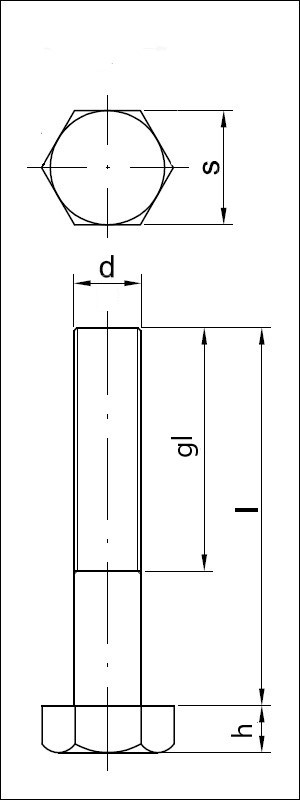
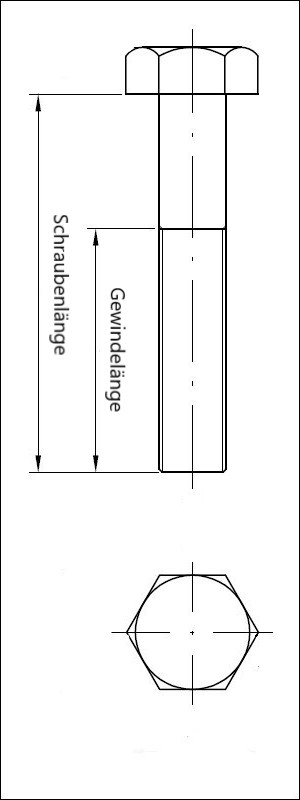
haben wir noch impfstoff?

diff --git a/Schraubengott/Schraubengott/MainWindow.xaml b/Schraubengott/Schraubengott/MainWindow.xaml
@@ -5,17 +5,14 @@
         xmlns:mc="http://schemas.openxmlformats.org/markup-compatibility/2006"
         xmlns:local="clr-namespace:Schraubengott"
         mc:Ignorable="d"
-        Title="Schraubengott" Height="652.912" Width="1067.25" Icon="Symbol.ico" ResizeMode="CanMinimize">
+        Title="Schraubengott" Height="610.245" Width="1072.583" Icon="Symbol.ico" ResizeMode="CanMinimize">
     <Grid>
         <Grid.ColumnDefinitions>
             <ColumnDefinition Width="11*"/>
             <ColumnDefinition Width="782*"/>
         </Grid.ColumnDefinitions>
-        <Image HorizontalAlignment="Left" Margin="52.5,0,0,150.5" Width="183" Source="vykres_-_din_931.jpg" Height="366" VerticalAlignment="Bottom" Grid.Column="1"/>
-        <Button Name="btnexit" Content="Exit" HorizontalAlignment="Left" Height="22" Margin="927.5,578,0,0" VerticalAlignment="Top" Width="92" Grid.Column="1" Click="btnexit_Click" />
-        <Button Content="Ich bin fertig" HorizontalAlignment="Left" Height="23" Margin="765.5,578,0,0" VerticalAlignment="Top" Width="92" Grid.Column="1"/>
-        <Button Content="zum Warenkorb" HorizontalAlignment="Left" Height="23" Margin="697,513,0,0" VerticalAlignment="Top" Width="92" Grid.Column="1" Click="Button_Click"  />
-        <TabControl Grid.Column="1" HorizontalAlignment="Left" Height="433" Margin="236,62,0,0" VerticalAlignment="Top" Width="760">
+        <Button Name="btnexit" Content="Exit" HorizontalAlignment="Left" Height="22" Margin="904.333,546,0,0" VerticalAlignment="Top" Width="92" Grid.Column="1" Click="btnexit_Click" />
+        <TabControl Grid.Column="1" HorizontalAlignment="Left" Height="447" Margin="42.333,44,0,0" VerticalAlignment="Top" Width="954">
             <TabItem x:Name="tab_konfig" Header="Konfigurator" Height="22" Margin="-2,-2,-2.5,0" VerticalAlignment="Top">
                 <Grid x:Name="grid0" RenderTransformOrigin="0.426,0.462">
                     <Grid.Background>
@@ -26,68 +23,75 @@
                         </RadialGradientBrush>
                     </Grid.Background>
                     <Grid.ColumnDefinitions>
-                        <ColumnDefinition Width="10*"/>
-                        <ColumnDefinition Width="75*"/>
-                        <ColumnDefinition Width="19*"/>
-                        <ColumnDefinition Width="18*"/>
-                        <ColumnDefinition Width="13*"/>
-                        <ColumnDefinition Width="46*"/>
-                        <ColumnDefinition Width="53*"/>
-                        <ColumnDefinition Width="171*"/>
-                        <ColumnDefinition Width="350*"/>
+
                     </Grid.ColumnDefinitions>
-                    <Label Content="Material:" HorizontalAlignment="Left" Height="30" Margin="4,10,0,0" VerticalAlignment="Top" Width="58" Grid.Column="1"/>
-                    <Label Content="Festigkeitsklasse:" HorizontalAlignment="Left" Height="30" Margin="4,45,0,0" VerticalAlignment="Top" Width="112" Grid.ColumnSpan="4" Grid.Column="1"/>
 
-
-                    <ComboBox Name="cbmat"   IsEditable="true" SelectedValuePath="Content"
-                                IsReadOnly="true" SelectionChanged="cbmat_SelectionChanged_1" HorizontalAlignment="Left" Height="26" Margin="17,10,0,0" VerticalAlignment="Top" Width="140" Grid.Column="3" Grid.ColumnSpan="5">
-                        <ComboBoxItem x:Name="name" Content="Verzinkter Stahl"/>
-                        <ComboBoxItem Content="V2A"/>
-                        <ComboBoxItem Content="V4A"/>
-
-
-                    </ComboBox>
-                    <ComboBox Name="cbfk" IsEditable="true" SelectedValuePath="Content"
-                         IsReadOnly="true"   HorizontalAlignment="Left" Height="26" Margin="17,45,0,0" VerticalAlignment="Top" Width="140" Grid.Column="3" Grid.ColumnSpan="5" SelectionChanged="cbfk_SelectionChanged" MaxDropDownHeight="60"  >
+                    <Image x:Name="Image1" HorizontalAlignment="Left" Margin="754,0,0,23" Width="140"  Height="368" VerticalAlignment="Bottom" Source="vykres_-_din_931.jpg" Visibility="Visible"/>
+                    <Image x:Name="Image2" HorizontalAlignment="Left" Margin="754,0,0,23" Width="140"  Height="368" VerticalAlignment="Bottom" Source="3929_1.jpg" Visibility="Hidden"/>
+                    <ComboBox  x:Name="cmb_nr" HorizontalAlignment="Left" Margin="237,25,0,0" VerticalAlignment="Top" Width="120" SelectionChanged="cmb_nr_SelectionChanged" Height="30">
+                        <ComboBoxItem x:Name="screw1"  Content="Schraube 1" HorizontalAlignment="Left" Width="118"/>
+                        <ComboBoxItem x:Name="screw2" Visibility="Collapsed" Content="Schraube 2" HorizontalAlignment="Left" Width="118"/>
+                        <ComboBoxItem x:Name="screw3" Visibility="Collapsed" Content="Schraube 3" HorizontalAlignment="Left" Width="118"/>
+                        <ComboBoxItem x:Name="screw4" Visibility="Collapsed" Content="Schraube 4" HorizontalAlignment="Left" Width="118"/>
+                        <ComboBoxItem x:Name="screw5" Visibility="Collapsed" Content="Schraube 5" HorizontalAlignment="Left" Width="118"/>
 
                     </ComboBox>
-                    <CheckBox x:Name="gewartcheck" Content="Feingewinde" HorizontalAlignment="Left" Margin="17,150,0,0" VerticalAlignment="Top" Height="16" Width="87" Checked="CheckBox_Checked" Unchecked="CheckBox_Unchecked" Grid.Column="3" Grid.ColumnSpan="4"/>
-                    <ComboBox x:Name="cbgewinde" IsEditable="true" SelectedValuePath="Content"
-                                IsReadOnly="true" HorizontalAlignment="Left" Margin="17,115,0,0" VerticalAlignment="Top" Width="140" Height="26" Grid.Column="3" Grid.ColumnSpan="5" SelectionChanged="cbgewinde_SelectionChanged" MaxDropDownHeight="60">
-                        <ComboBoxItem Content="M4" HorizontalAlignment="Left" Width="118"/>
-                        <ComboBoxItem Content="M5" HorizontalAlignment="Left" Width="118"/>
-                        <ComboBoxItem Content="M6" HorizontalAlignment="Left" Width="118"/>
-                        <ComboBoxItem Content="M8" HorizontalAlignment="Left" Width="118"/>
-                        <ComboBoxItem Content="M10" HorizontalAlignment="Left" Width="118"/>
-                        <ComboBoxItem Content="M12" HorizontalAlignment="Left" Width="118"/>
-                        <ComboBoxItem Content="M16" HorizontalAlignment="Left" Width="118"/>
-                        <ComboBoxItem Content="M20" HorizontalAlignment="Left" Width="118"/>
-                    </ComboBox>
-                    <Label Content="Gewinde" HorizontalAlignment="Left" Margin="4,115,0,0" VerticalAlignment="Top" Height="30" Width="56" Grid.Column="1"/>
-                    <Label Content="Bemerkungen:" HorizontalAlignment="Left" Margin="4,306,0,0" VerticalAlignment="Top" RenderTransformOrigin="0.971,4.298" Height="26" Width="86" Grid.ColumnSpan="2" Grid.Column="1"/>
-                    <TextBox x:Name="text" HorizontalAlignment="Left" Height="53" Margin="17,306,0,0" TextWrapping="Wrap" Text="z.B Bitte in 50er Paketen versenden" VerticalAlignment="Top" Width="274" Grid.Column="3" Grid.ColumnSpan="5" IsReadOnly="False" />
-                    <Label Content="Kopf:" HorizontalAlignment="Left" Height="30" Margin="4,80,0,0" VerticalAlignment="Top" Width="112" Grid.ColumnSpan="4" Grid.Column="1"/>
-                    <ComboBox x:Name="cbkopf" IsEditable="true" SelectedValuePath="Content"
-                        IsReadOnly="true" HorizontalAlignment="Left" Margin="17,80,0,0" VerticalAlignment="Top" Width="140" Height="26" Grid.Column="3" Grid.ColumnSpan="5" SelectionChanged="cbkopf_SelectionChanged" >
-                        <ComboBoxItem Content="Außensechskant"/>
-                        <ComboBoxItem Content="Innensechskant" />
+                    <Button x:Name="new_screw" Content="weitere Konfigurieren" HorizontalAlignment="Left" Margin="445,25,0,0" VerticalAlignment="Top" Width="156" Height="30" Click="new_screw_Click"/>
+                    <Label Content="EA" HorizontalAlignment="Left" Height="30" Margin="634,220,0,0" VerticalAlignment="Top" Width="39" RenderTransformOrigin="1.504,1.219"/>
+                    <Border BorderBrush="Black" BorderThickness="1" HorizontalAlignment="Left" Height="308" Margin="25,85,0,0" VerticalAlignment="Top" Width="662">
+                        <Grid>
+                            <Label Content="Material:" Height="30" Margin="15,35,0,0" VerticalAlignment="Top" Width="58" HorizontalAlignment="Left"/>
+                            <Label Content="Festigkeitsklasse:" HorizontalAlignment="Left" Height="30" Margin="15,85,0,0" VerticalAlignment="Top" Width="112"/>
 
 
-                    </ComboBox>
+                            <ComboBox Name="cbmat"   IsEditable="true" SelectedValuePath="Content"
+                                IsReadOnly="true" SelectionChanged="cbmat_SelectionChanged_1" HorizontalAlignment="Left" Height="26" Margin="135,35,0,0" VerticalAlignment="Top" Width="140">
+                                <ComboBoxItem x:Name="name" Content="Verzinkter Stahl"/>
+                                <ComboBoxItem Content="V2A"/>
+                                <ComboBoxItem Content="V4A"/>
 
 
-                    <Label Content="Schraubenlänge:" HorizontalAlignment="Left" Height="30" Margin="4,185,0,0" VerticalAlignment="Top" Width="112" Grid.ColumnSpan="4" Grid.Column="1"/>
-                    <Label Content="Gewindelänge:" HorizontalAlignment="Left" Height="30" Margin="4,220,0,0" VerticalAlignment="Top" Width="112" Grid.ColumnSpan="4" Grid.Column="1"/>
-                    <Label Content="mm" HorizontalAlignment="Left" Height="30" Margin="41,185,0,0" VerticalAlignment="Top" Width="39" RenderTransformOrigin="1.504,1.219" Grid.Column="6" Grid.ColumnSpan="2"/>
-                    <TextBox x:Name="txt_len" MaxLength="3" HorizontalAlignment="Left" Height="26" Margin="13,185,0,0" TextWrapping="Wrap" VerticalAlignment="Top" Width="69" UndoLimit="99" TextChanged="TextBox_TextChanged" Grid.Column="5" Grid.ColumnSpan="2"/>
-                    <TextBox x:Name="txt_gewlen" MaxLength="3" HorizontalAlignment="Left" Height="26" Margin="13,220,0,0" TextWrapping="Wrap" VerticalAlignment="Top" Width="69" UndoLimit="99" TextChanged="TextBox_TextChanged" Grid.Column="5" Grid.ColumnSpan="2"/>
-                    <Label Content="mm" HorizontalAlignment="Left" Height="30" Margin="41,220,0,0" VerticalAlignment="Top" Width="39" RenderTransformOrigin="1.504,1.219" Grid.Column="6" Grid.ColumnSpan="2"/>
-                    <Label Content="Menge" HorizontalAlignment="Left" Height="26" Margin="4,255,0,0" VerticalAlignment="Top" Width="112" Grid.ColumnSpan="4" Grid.Column="1"/>
-                    <TextBox x:Name="txt_menge" MaxLength="9" HorizontalAlignment="Left" Height="26" Margin="13,255,0,0" TextWrapping="Wrap" VerticalAlignment="Top" Width="69" UndoLimit="99" TextChanged="TextBox_TextChanged" Grid.Column="5" Grid.ColumnSpan="2"/>
-                    <Button x:Name="btnauswahl" Content="Auswahl speichern" Grid.Column="8" HorizontalAlignment="Left" Height="20" Margin="175.5,375,0,0" VerticalAlignment="Top" Width="114" Background="{DynamicResource {x:Static SystemColors.ActiveBorderBrushKey}}" Click="btnauswahl_Click"/>
-                    <Label x:Name="lbl_test"  Content="Label" Grid.Column="8" HorizontalAlignment="Left" Margin="189.5,108,0,0" VerticalAlignment="Top"/>
-                    <Label x:Name="lbl_test2" Content="Label" Grid.Column="8" HorizontalAlignment="Left" Margin="203.5,211,0,0" VerticalAlignment="Top"/>
+                            </ComboBox>
+                            <ComboBox Name="cbfk" IsEditable="true" SelectedValuePath="Content"
+                         IsReadOnly="true"   HorizontalAlignment="Left" Height="26" Margin="135,85,0,0" VerticalAlignment="Top" Width="140" SelectionChanged="cbfk_SelectionChanged" MaxDropDownHeight="60"  />
+                            <CheckBox x:Name="gewartcheck" Content="Feingewinde" HorizontalAlignment="Left" Margin="188,226,0,0" VerticalAlignment="Top" Height="16" Width="87" Checked="CheckBox_Checked" Unchecked="CheckBox_Unchecked"/>
+                            <ComboBox x:Name="cbgewinde" IsEditable="true" SelectedValuePath="Content"
+                                IsReadOnly="true" HorizontalAlignment="Left" Margin="135,185,0,0" VerticalAlignment="Top" Width="140" Height="26" SelectionChanged="cbgewinde_SelectionChanged" MaxDropDownHeight="60">
+                                <ComboBoxItem Content="M4" HorizontalAlignment="Left" Width="118"/>
+                                <ComboBoxItem Content="M5" HorizontalAlignment="Left" Width="118"/>
+                                <ComboBoxItem Content="M6" HorizontalAlignment="Left" Width="118"/>
+                                <ComboBoxItem Content="M8" HorizontalAlignment="Left" Width="118"/>
+                                <ComboBoxItem Content="M10" HorizontalAlignment="Left" Width="118"/>
+                                <ComboBoxItem Content="M12" HorizontalAlignment="Left" Width="118"/>
+                                <ComboBoxItem Content="M16" HorizontalAlignment="Left" Width="118"/>
+                                <ComboBoxItem Content="M20" HorizontalAlignment="Left" Width="118"/>
+                            </ComboBox>
+                            <Label Content="Gewinde" HorizontalAlignment="Left" Margin="15,185,0,0" VerticalAlignment="Top" Height="30" Width="56"/>
+                            <Label Content="Bemerkungen:" HorizontalAlignment="Left" Margin="350,185,0,0" VerticalAlignment="Top" RenderTransformOrigin="0.971,4.298" Height="26" Width="86"/>
+                            <TextBox x:Name="text" HorizontalAlignment="Left" Height="53" Margin="441,185,0,0" TextWrapping="Wrap" Text="z.B Bitte in 50er Paketen versenden" VerticalAlignment="Top" Width="207" IsReadOnly="False" />
+                            <Label Content="Kopf:" HorizontalAlignment="Left" Height="30" Margin="15,135,0,0" VerticalAlignment="Top" Width="112"/>
+                            <ComboBox x:Name="cbkopf" IsEditable="true" SelectedValuePath="Content"
+                        IsReadOnly="true" HorizontalAlignment="Left" Margin="135,135,0,0" VerticalAlignment="Top" Width="140" Height="26" SelectionChanged="cbkopf_SelectionChanged" >
+                                <ComboBoxItem Content="Außensechskant"/>
+                                <ComboBoxItem Content="Innensechskant" />
+
+
+                            </ComboBox>
+
+
+                            <Label Content="Schraubenlänge:" HorizontalAlignment="Left" Height="30" Margin="350,35,0,0" VerticalAlignment="Top" Width="112"/>
+                            <Label Content="Gewindelänge:" HorizontalAlignment="Left" Height="30" Margin="350,85,0,0" VerticalAlignment="Top" Width="112" RenderTransformOrigin="0.147,-1.628"/>
+                            <Label Content="mm" HorizontalAlignment="Left" Height="30" Margin="609,35,0,0" VerticalAlignment="Top" Width="39" RenderTransformOrigin="1.504,1.219"/>
+                            <TextBox x:Name="txt_len" MaxLength="3" HorizontalAlignment="Left" Height="26" Margin="535,35,0,0" TextWrapping="Wrap" VerticalAlignment="Top" Width="69" UndoLimit="99" TextChanged="TextBox_TextChanged"/>
+                            <TextBox x:Name="txt_gewlen" MaxLength="3" HorizontalAlignment="Left" Height="26" Margin="535,85,0,0" TextWrapping="Wrap" VerticalAlignment="Top" Width="69" UndoLimit="99" TextChanged="TextBox_TextChanged"/>
+                            <Label Content="mm" HorizontalAlignment="Left" Height="30" Margin="610,85,0,0" VerticalAlignment="Top" Width="39" RenderTransformOrigin="1.504,1.219"/>
+                            <Label Content="Menge" HorizontalAlignment="Left" Height="26" Margin="350,135,0,0" VerticalAlignment="Top" Width="112"/>
+                            <TextBox x:Name="txt_menge" MaxLength="9" HorizontalAlignment="Left" Height="26" Margin="535,135,0,0" TextWrapping="Wrap" VerticalAlignment="Top" Width="69" UndoLimit="99" TextChanged="TextBox_TextChanged"/>
+                            <Button x:Name="btnauswahl" Content="Auswahl speichern" HorizontalAlignment="Left" Height="20" Margin="534,275,0,0" VerticalAlignment="Top" Width="114" Background="{DynamicResource {x:Static SystemColors.ActiveBorderBrushKey}}" Click="btnauswahl_Click"/>
+                        </Grid>
+                    </Border>
+                    <Label Content="Zu konfigurierende Schraube:
+                           " HorizontalAlignment="Left" Height="30" Margin="46,25,0,0" VerticalAlignment="Top" Width="171"/>
 
 
 
@@ -124,6 +128,7 @@
                     <CheckBox x:Name="check3" Content="" HorizontalAlignment="Left" Margin="26,226,0,0" VerticalAlignment="Top" Checked="check3_Checked"/>
                     <CheckBox x:Name="check4" Content="" HorizontalAlignment="Left" Margin="26,291,0,0" VerticalAlignment="Top" Checked="check4_Checked"/>
                     <CheckBox x:Name="check5" Content="" HorizontalAlignment="Left" Margin="26,356,0,0" VerticalAlignment="Top" Checked="check5_Checked"/>
+                    <Button Content="zum Warenkorb" HorizontalAlignment="Left" Height="23" Margin="817,357,0,0" VerticalAlignment="Top" Width="92" Click="Button_Click"  />
 
 
 
@@ -177,6 +182,8 @@
                     <TextBox x:Name="preis4txt" HorizontalAlignment="Left" Height="54" Margin="370,226,0,0" TextWrapping="Wrap" VerticalAlignment="Top" Width="120" IsReadOnly="True"/>
                     <TextBox x:Name="preis5txt" HorizontalAlignment="Left" Height="54" Margin="370,280,0,0" TextWrapping="Wrap" VerticalAlignment="Top" Width="120" IsReadOnly="True"/>
                     <TextBox x:Name="summepreistxt" HorizontalAlignment="Left" Height="54" Margin="370,334,0,0" TextWrapping="Wrap" VerticalAlignment="Top" Width="120" IsReadOnly="True"/>
+                    <Button x:Name="btnangebot" Content="Angebot absenden" HorizontalAlignment="Left" Height="42" Margin="772,334,0,0" VerticalAlignment="Top" Width="130"/>
+                    <Button x:Name="btnexcel" Content="Excel herunterladen" HorizontalAlignment="Left" Height="42" Margin="772,268,0,0" VerticalAlignment="Top" Width="130"/>
 
 
                 </Grid>
@@ -187,15 +194,7 @@
 
 
         </TabControl>
-        <ComboBox  Name="cmb_nr" Grid.Column="1" HorizontalAlignment="Left" Margin="52.5,62,0,0" VerticalAlignment="Top" Width="120" SelectionChanged="cmb_nr_SelectionChanged">
-            <ComboBoxItem x:Name="screw1"  Content="Schraube 1" HorizontalAlignment="Left" Width="118"/>
-            <ComboBoxItem x:Name="screw2" Visibility="Collapsed" Content="Schraube 2" HorizontalAlignment="Left" Width="118"/>
-            <ComboBoxItem x:Name="screw3" Visibility="Collapsed" Content="Schraube 3" HorizontalAlignment="Left" Width="118"/>
-            <ComboBoxItem x:Name="screw4" Visibility="Collapsed" Content="Schraube 4" HorizontalAlignment="Left" Width="118"/>
-            <ComboBoxItem x:Name="screw5" Visibility="Collapsed" Content="Schraube 5" HorizontalAlignment="Left" Width="118"/>
-
-        </ComboBox>
-        <Button x:Name="new_screw" Content="weitere Konfigurieren" Grid.Column="1" HorizontalAlignment="Left" Margin="235.5,36,0,0" VerticalAlignment="Top" Width="156" Height="21" Click="new_screw_Click"/>
+        <Label Content="Griffindor IT-Solutions - Fynn Kummer | Jonathan Rietig | Lars Bohling | Malte Klarmann" HorizontalAlignment="Left" Height="29" Margin="0,553,0,0" VerticalAlignment="Top" Width="481" Grid.ColumnSpan="2"/>
 
 
 

diff --git a/Schraubengott/Schraubengott/MainWindow.xaml.cs b/Schraubengott/Schraubengott/MainWindow.xaml.cs
@@ -19,10 +19,11 @@ using System.Windows.Shapes;
 
 namespace Schraubengott
 {
-    /// <summary>
-    /// Interaktionslogik für MainWindow.xaml
-    /// </summary>
-    public partial class MainWindow : Window
+   /// <summary>
+
+/// Interaktionslogik für MainWindow.xaml
+ /// </summary>
+public partial class MainWindow : Window
     {
         Schraube[] feld = new Schraube[5];      //Array vom Typ Schraube erstellen
         int nr = 0;                             //Variable für den Index des Feldes Schraube
@@ -159,7 +160,7 @@ namespace Schraubengott
             feld[nr].laenge = Convert.ToInt32(txt_len.Text);
 
 
-            lbl_test2.Content = feld[nr].material;// nur zum Test, muss später weg
+            //lbl_test2.Content = feld[nr].material;// nur zum Test, muss später weg
             
 
 
@@ -182,7 +183,19 @@ namespace Schraubengott
 
         private void cbkopf_SelectionChanged(object sender, SelectionChangedEventArgs e)
         {
-            
+            if (cbkopf.SelectedValue.ToString() == "Außensechskant")
+            {
+                Image1.Visibility = Visibility.Visible;
+                Image2.Visibility = Visibility.Hidden;
+
+            }
+            else
+            {
+                Image1.Visibility = Visibility.Hidden;
+                Image2.Visibility = Visibility.Visible;
+            }
+
+
         }
 
         private void cbgewinde_SelectionChanged(object sender, SelectionChangedEventArgs e)
@@ -206,31 +219,31 @@ namespace Schraubengott
                     nr = 0;
                     
                     tab_konfig.Header = "1. Konfiguration"; // Hier muss noch was geändert werden, dass sich der Tabheader immer der aktuellen Schraube anpasst
-                    lbl_test.Content = nr;
+                    //lbl_test.Content = nr;
                     break;
 
                 case 1:
                     nr = 1;
                     tab_konfig.Header = "2. Konfiguration";
-                    lbl_test.Content = nr;
+                    //lbl_test.Content = nr;
                     break;
 
                 case 2:
                     nr = 2;
                     tab_konfig.Header = "3. Konfiguration";
-                    lbl_test.Content = nr;
+                    //lbl_test.Content = nr;
                     break;
 
                 case 3:
                     nr = 3;
                     tab_konfig.Header = "4. Konfiguration";
-                    lbl_test.Content = nr;
+                   // lbl_test.Content = nr;
                     break;
 
                 case 4:
                     nr = 4;
                     tab_konfig.Header = "5. Konfiguration";
-                    lbl_test.Content = nr;
+                    //lbl_test.Content = nr;
                     break;
 
             }
